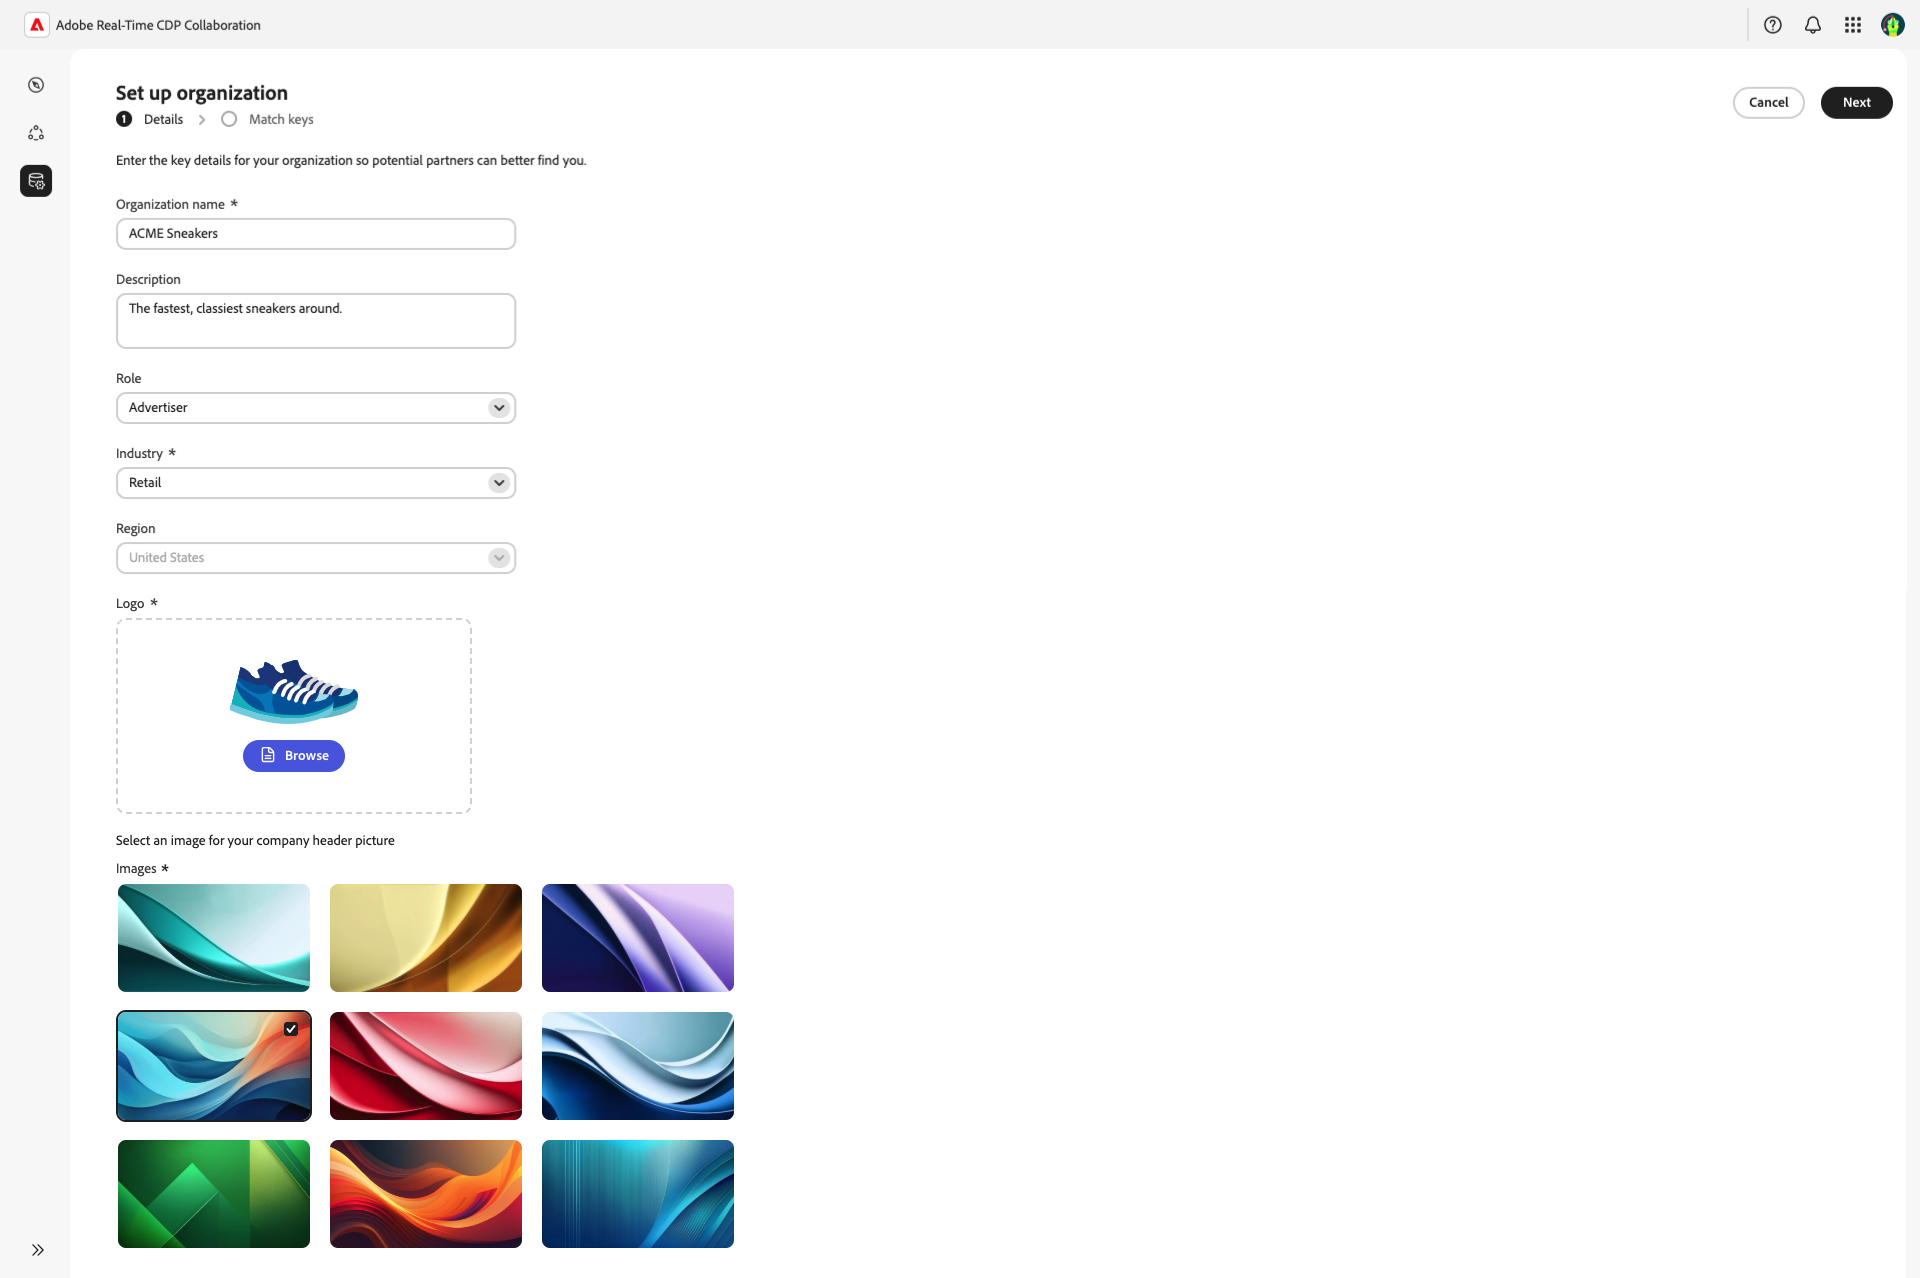
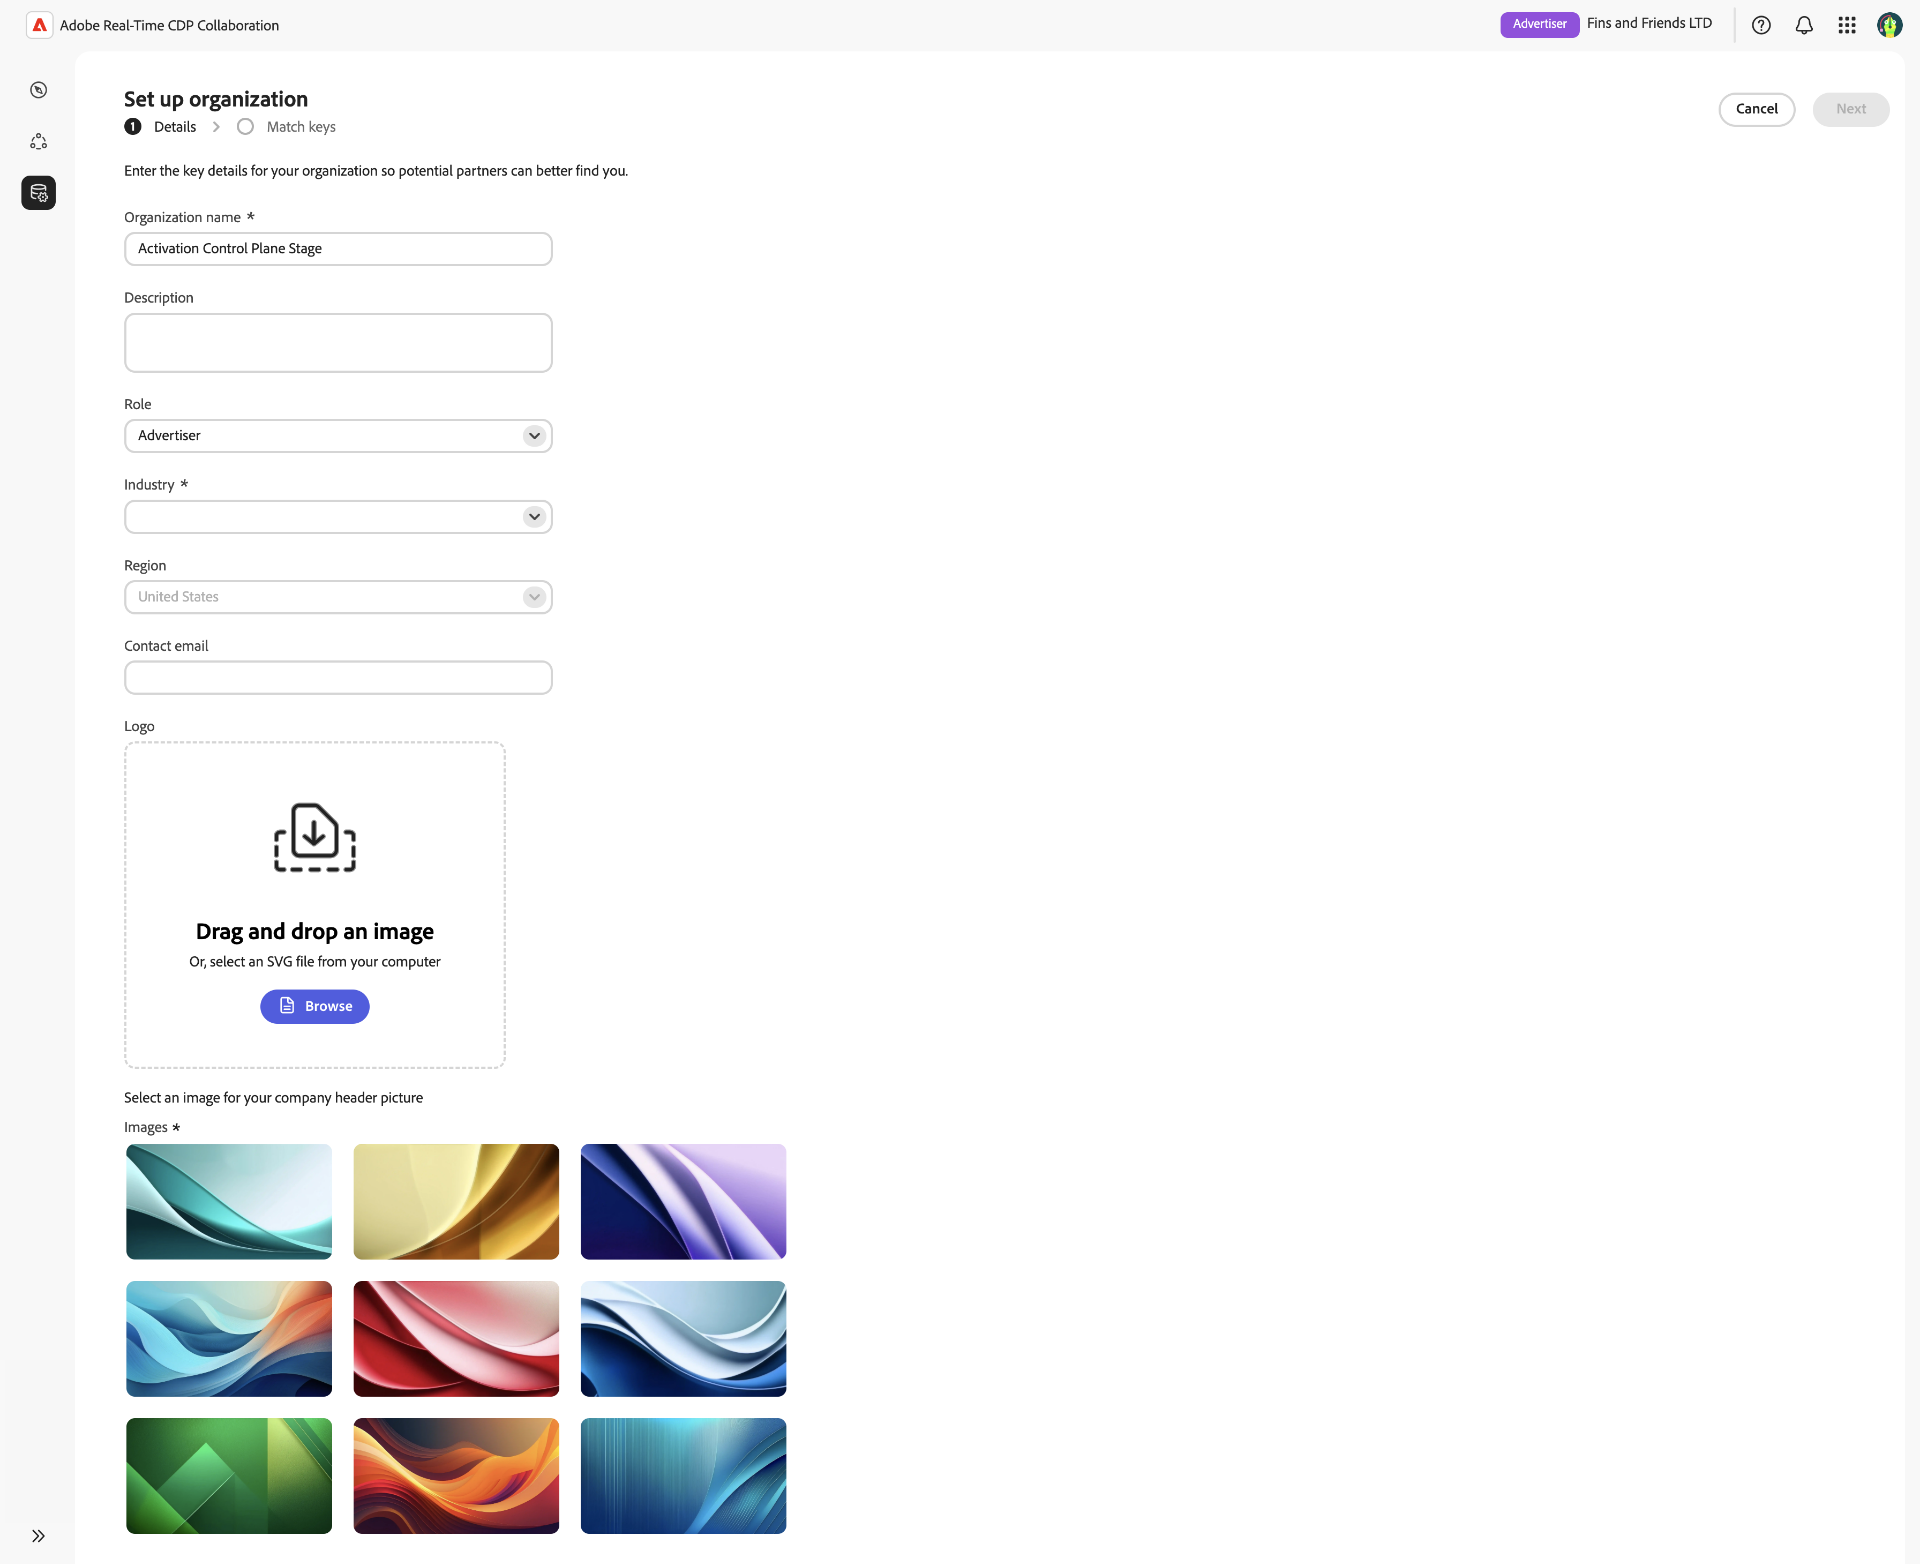
updated organization contact

diff --git a/help/guide/setup/onboard-organization.md b/help/guide/setup/onboard-organization.md
@@ -46,10 +46,11 @@ The workflow to set up your organization includes the two pages below:
 3. Select your **[!UICONTROL Company role]**. You can select between **[!UICONTROL Advertiser]** and **[!UICONTROL Publisher]**. Read the [end-to-end workflow document](/help/guide/end-to-end-workflow.md) to see similarities and slight differences in workflow between the two organizational role types.
 4. Select the **[!UICONTROL Industry]** for your organization. Some examples include **[!UICONTROL Retail]**, **[!UICONTROL Telecommunications]**, or **[!UICONTROL Financial services]**.
 5. Select the **[!UICONTROL Region]** for your organization. In the current version of the product, **[!UICONTROL North America]** is the preset default selection.
-6. <span class="preview"> Publisher-only</span>: When setting up a publisher organization, you must read and acknowledge that you will be discoverable by advertisers in the publisher catalog.
+6. Add a **[!UICONTROL Contact email]** for your organization. This should be a team or role-based email address. Personal email addresses should not be provided.
+7. <span class="preview"> Publisher-only</span>: When setting up a publisher organization, you must read and acknowledge that you will be discoverable by advertisers in the publisher catalog.
     ![Publisher-specific opt-in message.](/help/assets/setup/manage-organization/publisher-specific-optin-message.png){zoomable="yes"}
-7. Upload a **[!UICONTROL Logo]** for your company. Currently, SVG-type images are supported.
-8. Select an image for your company header picture.
+8. Upload a **[!UICONTROL Logo]** for your company. Currently, SVG-type images are supported.
+9. Select an image for your company header picture.
 
 When satisfied with your selection, use **[!UICONTROL Next]** to proceed to the next page and select the desired match keys that your organization should use.
 
